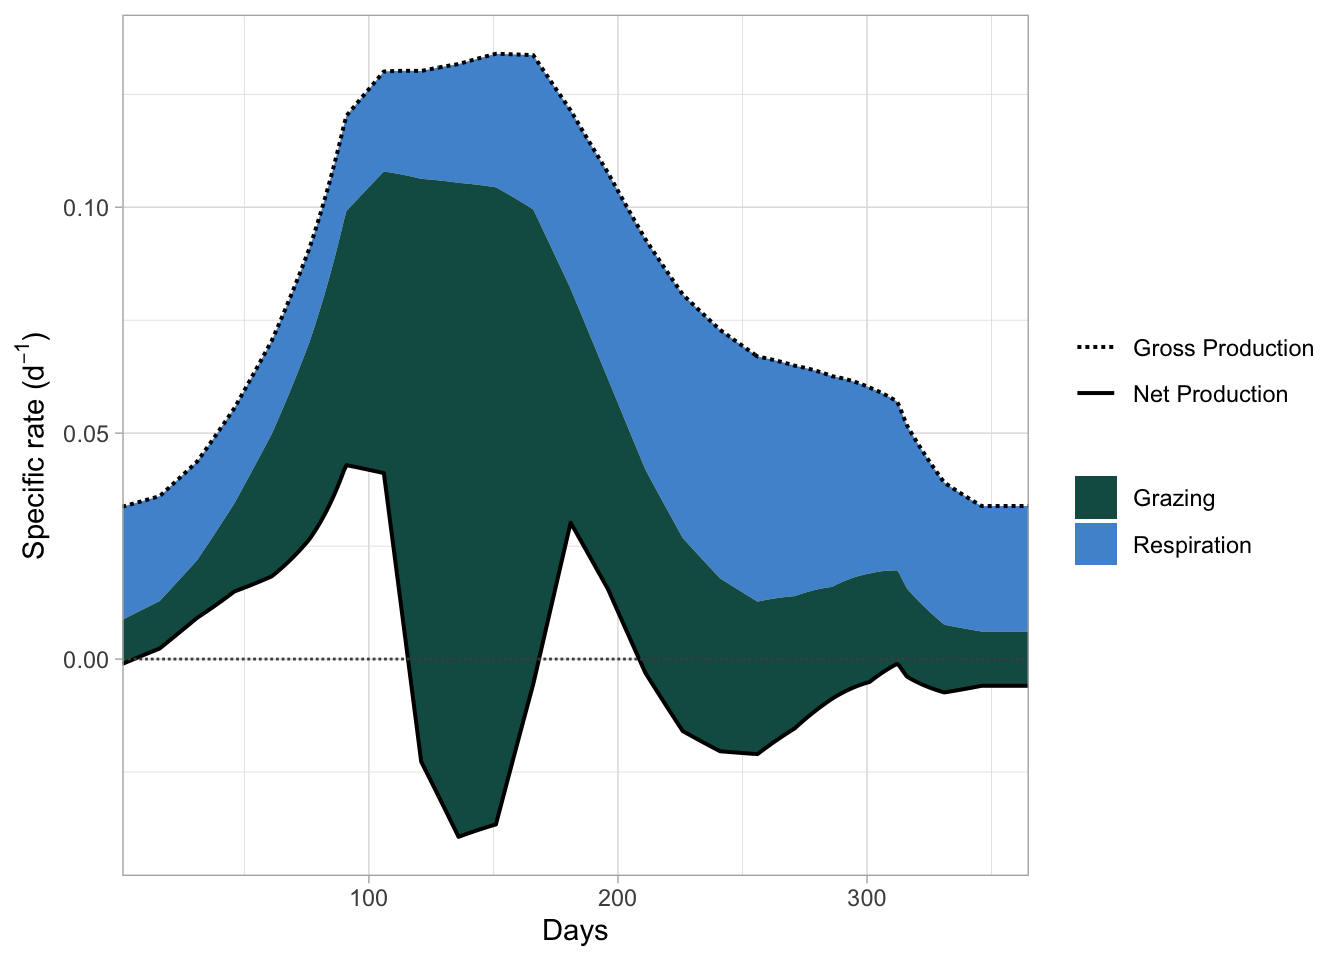
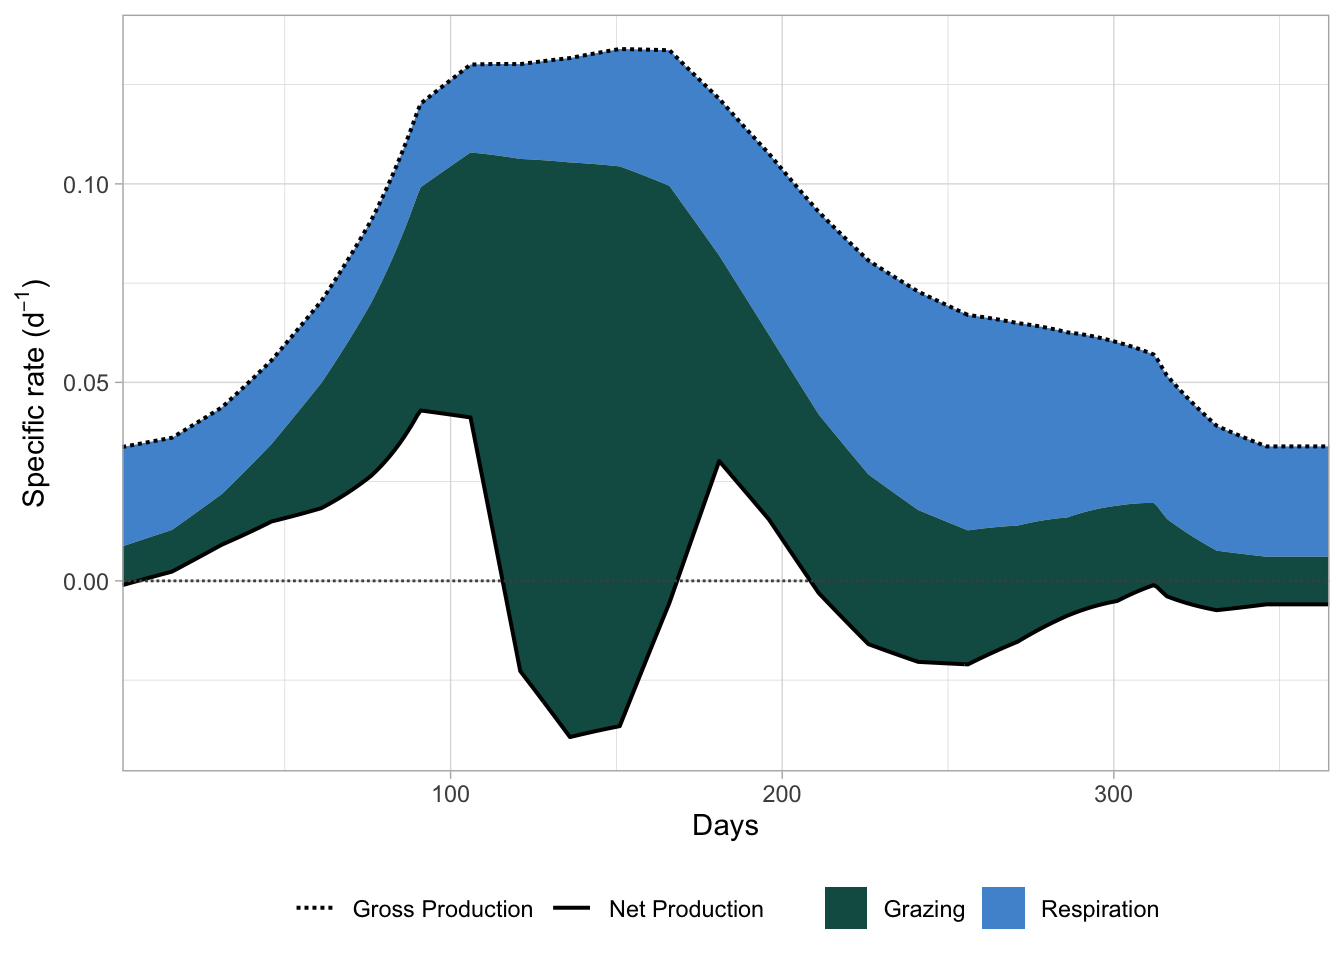
updated figures, play around formulas

diff --git a/scripts/riley_presentation.html b/scripts/riley_presentation.html
@@ -185,10 +185,102 @@ window.Quarto = {
 <h2 class="anchored" data-anchor-id="model-equations">Model equations</h2>
 <p>Riley’s model equaitions, as adapted by Anderson and Wendy Gentleman:</p>
 <p><span class="math display">\[
-\frac{d \text{P}}{d t } = (\overline{\text{P}_\text{h}} - \text{R} - \text{G})* \text{P}
+\frac{\mathrm{d} P}{\mathrm{d} t } = (\overline{P_h} - R - G) P
 \]</span></p>
-<p>, where <span class="math inline">\(\text{P}\)</span> is the Phytoplankton biomass, <span class="math inline">\(\overline{\text{P}_\text{h}}\)</span> the average photosynthisis in euphotic zone, and <span class="math inline">\(\text{G}\)</span> the grazing rate.</p>
-<p><span class="math inline">\(\overline{\text{P}_\text{h}}\)</span> is calculated as</p>
+<p>, where <span class="math inline">\(P\)</span> is the Phytoplankton biomass, <span class="math inline">\(\overline{P_h}\)</span> the average photosynthisis in euphotic zone, and <span class="math inline">\(G\)</span> the grazing rate.</p>
+<p><span class="math inline">\(\overline{P_h}\)</span> is calculated as</p>
+<p><span class="math display">\[
+\overline{P_h}  = \frac{\textcolor{#B3541E}{p} \textcolor{#2B5F9E}{I_0}}{\textcolor{#2B5F9E}{k z_\text{euph}}}(1-\mathrm{e}^{-\textcolor{#2B5F9E}{k z_\text{euph}}})\textcolor{#2B5F9E}{L_\text{N}L_\text{V}}
+\]</span></p>
+<p>Parameters are shown in <span style="color:#B3541E">red</span> and forcing variables in <span style="color:#2B5F9E">blue</span></p>
+<table class="caption-top table">
+<colgroup>
+<col style="width: 50%">
+<col style="width: 24%">
+<col style="width: 24%">
+</colgroup>
+<thead>
+<tr class="header">
+<th><strong>Parameter</strong></th>
+<th><strong>Value</strong></th>
+<th><strong>Meaning</strong></th>
+</tr>
+</thead>
+<tbody>
+<tr class="odd">
+<td><span class="math inline">\(\textcolor{#B3541E}{p}\)</span></td>
+<td>2.5 <span class="math inline">\(\mathrm{gC(gC)^{-1}d^{-1}}\)</span></td>
+<td>photosynthetic rate per unit irradiance</td>
+</tr>
+</tbody>
+</table>
+<table class="caption-top table">
+<colgroup>
+<col style="width: 56%">
+<col style="width: 21%">
+<col style="width: 21%">
+</colgroup>
+<thead>
+<tr class="header">
+<th><strong>Forcing variable</strong></th>
+<th><strong>Unit</strong></th>
+<th><strong>Meaning</strong></th>
+</tr>
+</thead>
+<tbody>
+<tr class="odd">
+<td><span class="math inline">\(\textcolor{#2B5F9E}{I_0}\)</span></td>
+<td></td>
+<td>Light at seasurface</td>
+</tr>
+<tr class="even">
+<td><span class="math inline">\(\textcolor{#2B5F9E}{k}\)</span></td>
+<td></td>
+<td>extinction coefficient</td>
+</tr>
+<tr class="odd">
+<td><span class="math inline">\(\textcolor{#2B5F9E}{z_\text{euph}}\)</span></td>
+<td></td>
+<td>depth of the euphotic zone</td>
+</tr>
+<tr class="even">
+<td><span class="math inline">\(\textcolor{#2B5F9E}{L_\text{N}}\)</span></td>
+<td></td>
+<td>limiting effects of turbulence</td>
+</tr>
+<tr class="odd">
+<td><span class="math inline">\(\textcolor{#2B5F9E}{L_\text{V}}\)</span></td>
+<td></td>
+<td>limiting effects of nutrients</td>
+</tr>
+</tbody>
+</table>
+<table class="caption-top table">
+<colgroup>
+<col style="width: 38%">
+<col style="width: 28%">
+<col style="width: 32%">
+</colgroup>
+<thead>
+<tr class="header">
+<th style="text-align: center;"><strong>Parameter</strong></th>
+<th style="text-align: center;"><strong>Value</strong></th>
+<th style="text-align: left;"><strong>Meaning</strong></th>
+</tr>
+</thead>
+<tbody>
+<tr class="odd">
+<td style="text-align: center;"><span style="display:inline-block; width:20px; text-align:center;"><span class="math inline">\(\textcolor{#B3541E}{p}\)</span></span></td>
+<td style="text-align: center;">2.5 <span class="math inline">\(\mathrm{gC(gC)^{-1}d^{-1}}\)</span></td>
+<td style="text-align: left;">photosynthetic rate per unit irradiance</td>
+</tr>
+<tr class="even">
+<td style="text-align: center;"><span style="display:inline-block; width:20px; text-align:center;"><span class="math inline">\(\textcolor{#B3541E}{r}\)</span></span></td>
+<td style="text-align: center;">0.3 <span class="math inline">\(\mathrm{d^{-1}}\)</span></td>
+<td style="text-align: left;">specific growth rate</td>
+</tr>
+</tbody>
+</table>
 </section>
 <section id="first-model" class="level2">
 <h2 class="anchored" data-anchor-id="first-model">First Model</h2>
@@ -353,8 +445,9 @@ Figure&nbsp;1: Modelled phytoplankton biomass
 <span id="cb9-48"><a href="#cb9-48" aria-hidden="true" tabindex="-1"></a>    )</span>
 <span id="cb9-49"><a href="#cb9-49" aria-hidden="true" tabindex="-1"></a>  ) <span class="sc">+</span></span>
 <span id="cb9-50"><a href="#cb9-50" aria-hidden="true" tabindex="-1"></a>  <span class="fu">scale_x_continuous</span>(<span class="at">expand =</span> <span class="fu">c</span>(<span class="dv">0</span>, <span class="dv">0</span>)) <span class="sc">+</span></span>
-<span id="cb9-51"><a href="#cb9-51" aria-hidden="true" tabindex="-1"></a>  <span class="fu">theme_light</span>()</span>
-<span id="cb9-52"><a href="#cb9-52" aria-hidden="true" tabindex="-1"></a>plot_rates</span></code><button title="Copy to Clipboard" class="code-copy-button"><i class="bi"></i></button></pre></div>
+<span id="cb9-51"><a href="#cb9-51" aria-hidden="true" tabindex="-1"></a>  <span class="fu">theme_light</span>() <span class="sc">+</span></span>
+<span id="cb9-52"><a href="#cb9-52" aria-hidden="true" tabindex="-1"></a>  <span class="fu">theme</span>(<span class="at">legend.position =</span> <span class="st">"bottom"</span>)</span>
+<span id="cb9-53"><a href="#cb9-53" aria-hidden="true" tabindex="-1"></a>plot_rates</span></code><button title="Copy to Clipboard" class="code-copy-button"><i class="bi"></i></button></pre></div>
 </details>
 <div class="cell-output-display">
 <div id="fig-rates_m1" class="quarto-float quarto-figure quarto-figure-center anchored">
@@ -487,7 +580,8 @@ Figure&nbsp;2: Modelled production rates
 <span id="cb14-18"><a href="#cb14-18" aria-hidden="true" tabindex="-1"></a>    <span class="at">col =</span> <span class="cn">NULL</span></span>
 <span id="cb14-19"><a href="#cb14-19" aria-hidden="true" tabindex="-1"></a>  ) <span class="sc">+</span></span>
 <span id="cb14-20"><a href="#cb14-20" aria-hidden="true" tabindex="-1"></a>  <span class="fu">scale_colour_manual</span>(<span class="at">values =</span> <span class="fu">c</span>(<span class="st">"#be5523"</span>, <span class="st">"#a7a8ec"</span>)) <span class="sc">+</span></span>
-<span id="cb14-21"><a href="#cb14-21" aria-hidden="true" tabindex="-1"></a>  <span class="fu">theme_light</span>()</span></code><button title="Copy to Clipboard" class="code-copy-button"><i class="bi"></i></button></pre></div>
+<span id="cb14-21"><a href="#cb14-21" aria-hidden="true" tabindex="-1"></a>  <span class="fu">theme_light</span>() <span class="sc">+</span></span>
+<span id="cb14-22"><a href="#cb14-22" aria-hidden="true" tabindex="-1"></a>  <span class="fu">theme</span>(<span class="at">legend.position =</span> <span class="st">"bottom"</span>)</span></code><button title="Copy to Clipboard" class="code-copy-button"><i class="bi"></i></button></pre></div>
 </details>
 <div class="cell-output-display">
 <div id="fig-phyto_comparison" class="quarto-float quarto-figure quarto-figure-center anchored">
@@ -559,11 +653,12 @@ Figure&nbsp;3: Modelled phytoplankton biomass with <code>approx()</code> and GAM
 <span id="cb15-51"><a href="#cb15-51" aria-hidden="true" tabindex="-1"></a>  <span class="fu">theme_light</span>()</span>
 <span id="cb15-52"><a href="#cb15-52" aria-hidden="true" tabindex="-1"></a></span>
 <span id="cb15-53"><a href="#cb15-53" aria-hidden="true" tabindex="-1"></a></span>
-<span id="cb15-54"><a href="#cb15-54" aria-hidden="true" tabindex="-1"></a>plot_rates <span class="sc">+</span></span>
-<span id="cb15-55"><a href="#cb15-55" aria-hidden="true" tabindex="-1"></a>  <span class="fu">ggtitle</span>(<span class="st">"approx()"</span>) <span class="sc">+</span></span>
-<span id="cb15-56"><a href="#cb15-56" aria-hidden="true" tabindex="-1"></a>  plot_rates_g <span class="sc">+</span></span>
-<span id="cb15-57"><a href="#cb15-57" aria-hidden="true" tabindex="-1"></a>  <span class="fu">ggtitle</span>(<span class="st">"GAM"</span>) <span class="sc">+</span></span>
-<span id="cb15-58"><a href="#cb15-58" aria-hidden="true" tabindex="-1"></a>  <span class="fu">plot_layout</span>(<span class="at">guides =</span> <span class="st">"collect"</span>)</span></code><button title="Copy to Clipboard" class="code-copy-button"><i class="bi"></i></button></pre></div>
+<span id="cb15-54"><a href="#cb15-54" aria-hidden="true" tabindex="-1"></a>(plot_rates <span class="sc">+</span></span>
+<span id="cb15-55"><a href="#cb15-55" aria-hidden="true" tabindex="-1"></a>  <span class="fu">ggtitle</span>(<span class="st">"approx()"</span>)) <span class="sc">/</span></span>
+<span id="cb15-56"><a href="#cb15-56" aria-hidden="true" tabindex="-1"></a>  (plot_rates_g <span class="sc">+</span></span>
+<span id="cb15-57"><a href="#cb15-57" aria-hidden="true" tabindex="-1"></a>    <span class="fu">ggtitle</span>(<span class="st">"GAM"</span>)) <span class="sc">+</span></span>
+<span id="cb15-58"><a href="#cb15-58" aria-hidden="true" tabindex="-1"></a>  <span class="fu">plot_layout</span>(<span class="at">guides =</span> <span class="st">"collect"</span>, <span class="at">axes =</span> <span class="st">'collect'</span>, <span class="at">axis_titles =</span> <span class="st">"collect"</span>) <span class="sc">&amp;</span></span>
+<span id="cb15-59"><a href="#cb15-59" aria-hidden="true" tabindex="-1"></a>  <span class="fu">theme</span>(<span class="at">legend.position =</span> <span class="st">'bottom'</span>)</span></code><button title="Copy to Clipboard" class="code-copy-button"><i class="bi"></i></button></pre></div>
 </details>
 <div class="cell-output-display">
 <div id="fig-rates_g" class="quarto-float quarto-figure quarto-figure-center anchored">
@@ -926,6 +1021,7 @@ Figure&nbsp;8: Global sensitivity normal distribution
 </div>
 </div>
 </div>
+<p>In <a href="#fig-global_sensitivity_lhs" class="quarto-xref">Figure&nbsp;7</a> and <a href="#fig-global_sensitivity_norm" class="quarto-xref">Figure&nbsp;8</a>, the timing is mainly in 3 days, independed on the other values, which correlate to the three blooms that seem to depend only on the forcing variables.</p>
 </section>
 </section>
 
